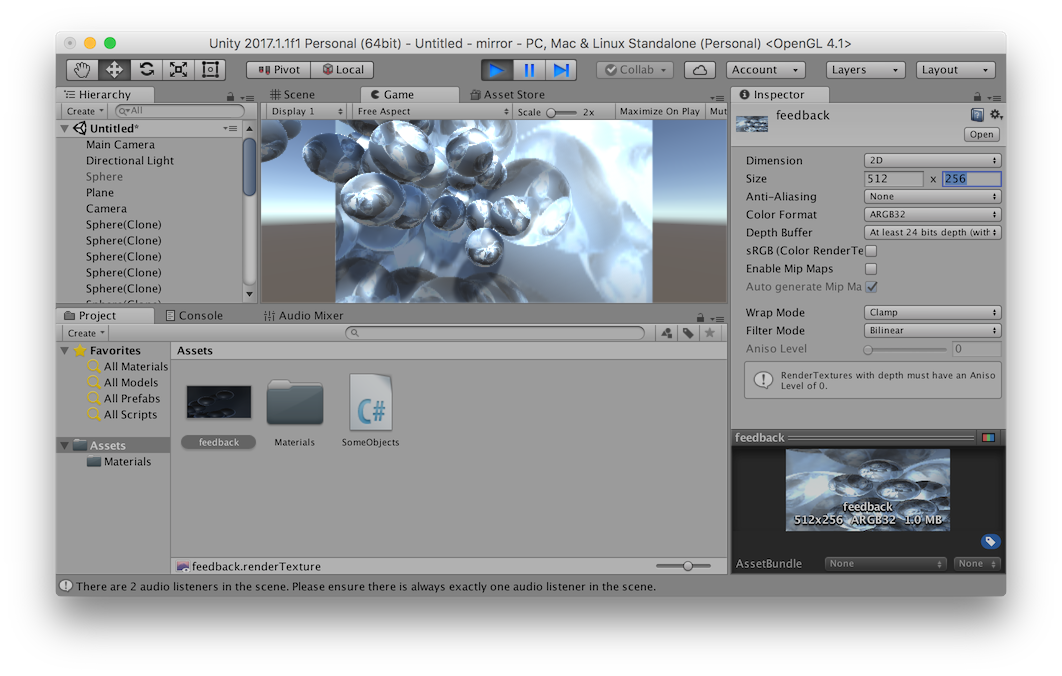
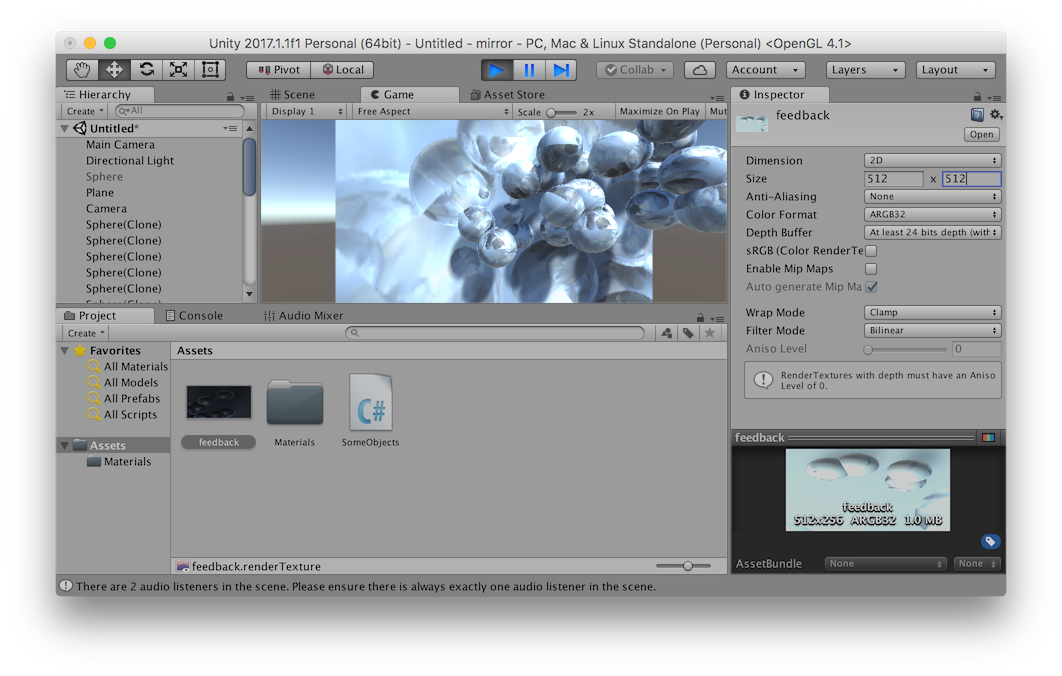
swapped a picture

Changed region(s): [[0.2486, 0.1553, 0.7458, 0.466], [0.7147, 0.6524, 0.9011, 0.8077], [0.8701, 0.2485, 0.9322, 0.2796]]

diff --git a/udk171116/README.md b/udk171116/README.md
@@ -555,7 +555,7 @@ unity3d
 
 playing with render textures and feedback.
 
-note: this will also work in 2D but to get better results create a light by selecting GameObject / Light / Directional Light
+note: this will also work really well in 2D but to get good results add a light by selecting GameObject / Light / Directional Light
 
 * start unity and create a new **3D** project. give it a name (here mirror)
 * create a new script by selecting Assets / Create / C# Script
@@ -643,13 +643,16 @@ public class SomeObjects : MonoBehaviour {
 
 experiment. things to try:
 
+* positions, scaling, rotation for (new) camera and plane
 * change light type and colour
 * set 'No Shadows' in the light
+* change the code in the script
 * try 'Orthographic' projection and different clear flags for the cameras
 * click on the feedback texture (in the assets window near the bottom of the screen) and change things. size 512 will give higher resolution for the feedback. also try very low resolutions, change anti-aliasing, and colour format
 * change from Sphere to Cubes (or other imported prefabs)
+* try adding more planes also with the feedback texture. can you build a hall of mirrors?
 
-the last trick will be to apply the feedback texture to all the objects.
+the last trick will be to apply the feedback texture to all the objects!
 
 * stop
 * drag and drop the feedback texture from assets window to the Sphere (or whatever object you use as a prefab) in the upper left hierachy window
